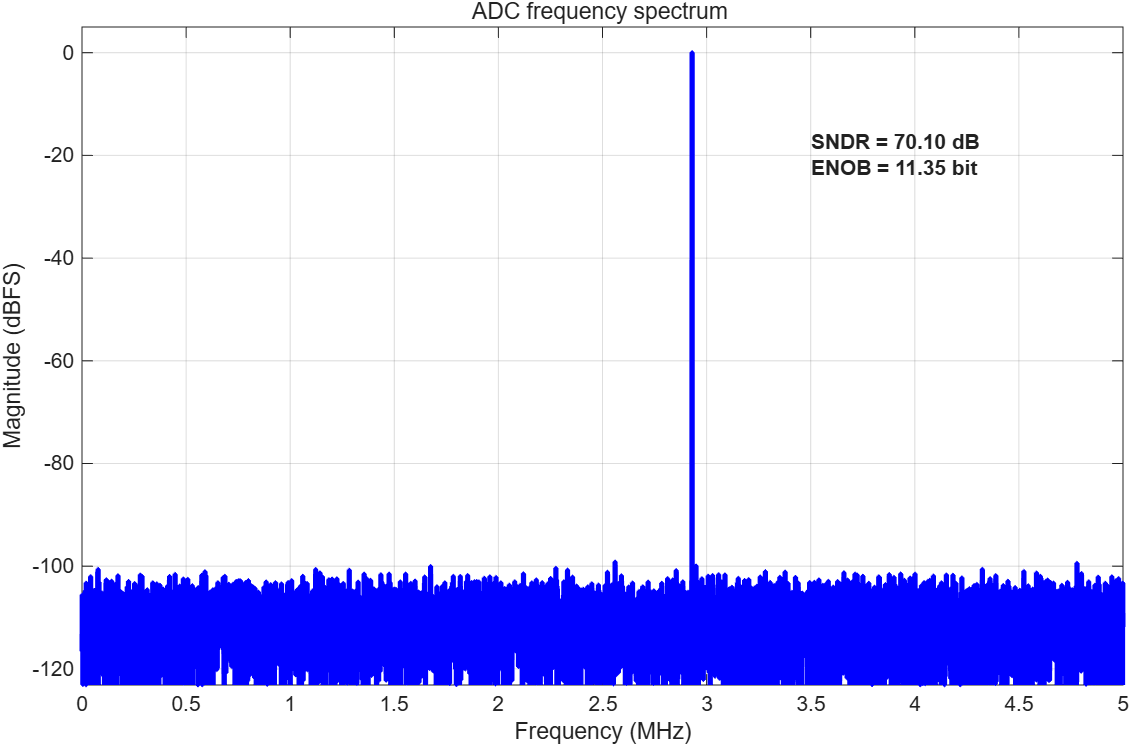
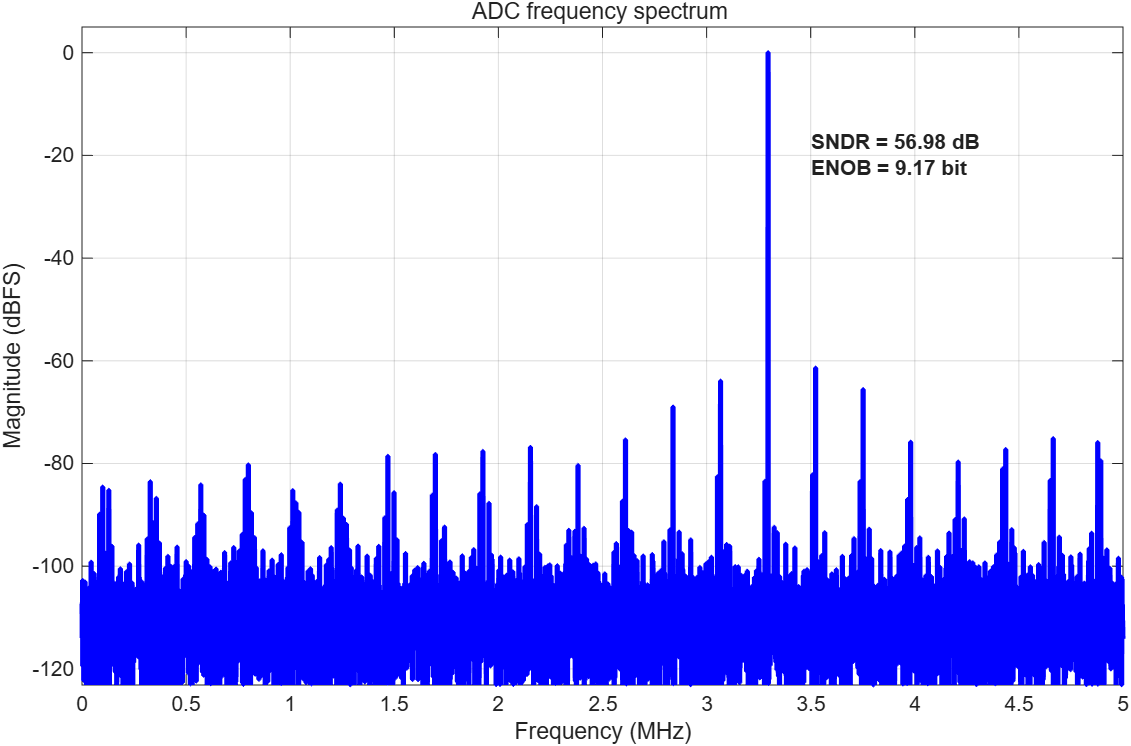
change the pictures

diff --git a/function/genBwaCdac.m b/function/genBwaCdac.m
@@ -1,28 +1,56 @@
 function capArray = genBwaCdac( p )
 
-  %% generate weight CDAC
+  %% choose topology
 
-  weightCDAC = 2 .^ ( p.adcResolution / 2 - 1 : -1 : 0 );
+  switch p.dacTopology
+    case 'split-array_type-1'
+      mainArrayExponent = p.mainArraySize-1 : -1 : 0;
+      subArrayExponent = [p.subArraySize-1 : -1 : 0, 0];
+      mainArrayCapWeight = 2 .^ mainArrayExponent;
+      subArrayCapWeight = 2 .^ subArrayExponent;
+      capWeight = [mainArrayCapWeight, subArrayCapWeight, p.bridgeCapWeight];
+    case 'split-array_type-2'
+      mainArrayExponent = [p.mainArraySize-1 : -1 : 0, 0];
+      subArrayExponent = p.subArraySize-1 : -1 : 0;
+      mainArrayCapWeight = 2 .^ mainArrayExponent;
+      subArrayCapWeight = 2 .^ subArrayExponent;
+      capWeight = [mainArrayCapWeight, subArrayCapWeight, p.bridgeCapWeight];
+    case 'split-array_type-3'
+      mainArrayExponent = p.mainArraySize-1 : -1 : 0;
+      subArrayExponent = p.subArraySize-1 : -1 : 0;
+      mainArrayCapWeight = 2 .^ mainArrayExponent;
+      subArrayCapWeight = 2 .^ subArrayExponent;
+      capWeight = [mainArrayCapWeight, subArrayCapWeight, p.bridgeCapWeight];
+    otherwise
+      warning( 'DAC synthesis failed! Please check the p.dacTopology.' )
+  end
 
-  %% include attenuation capacitor
+  %% choose matching
 
-  weightArray = [weightCDAC, 1, weightCDAC];
-
-  %% initialize capacitor array
-
-  capValueArray = nan( size( weightArray ) );
-
-  %% actual capacitor array
-
-  for iCap = 1 : length( weightArray )
-    numUnitCap = weightArray( iCap );
-    capValueArray( iCap ) = normrnd( numUnitCap * p.unitCap, sqrt( numUnitCap ) * p.mismatchStd * p.unitCap / p.numOfSmallestCap );
+  switch p.matching
+    case 'good'
+      caps = p.unitCap * normrnd( capWeight, p.mismatchStd .* sqrt( capWeight ) );
+    case 'bad'
+      caps = p.unitCap * normrnd( capWeight, p.mismatchStd .* capWeight );
+    otherwise
+      warning( 'Unkown matching flag! Matching flag must be set.' )
   end
 
   %% store results
 
-  capArray.main = capValueArray( 1 : p.adcResolution / 2 );
-  capArray.sub = capValueArray( p.adcResolution / 2 + 2 : end );
-  capArray.att = capValueArray( p.adcResolution / 2 + 1 );
+  switch p.dacTopology
+    case 'split-array_type-1'
+      capArray.main = caps( 1 : p.mainArraySize );
+      capArray.sub = caps( p.mainArraySize + 1 : end - 1 );
+      capArray.att = caps( end );
+    case 'split-array_type-2'
+      capArray.main = caps( 1 : p.mainArraySize + 1 );
+      capArray.sub = caps( p.mainArraySize + 2 : end - 1 );
+      capArray.att = caps( end );
+    case 'split-array_type-3'
+      capArray.main = caps( 1 : p.mainArraySize );
+      capArray.sub = caps( p.mainArraySize + 1 : end - 1 );
+      capArray.att = caps( end );
+  end
 
 end

diff --git a/function/plotAdcStaticSimulationResult.m b/function/plotAdcStaticSimulationResult.m
@@ -6,9 +6,10 @@ function [dnlObj, inlObj] = plotAdcStaticSimulationResult( p, adcStaticPerforman
   plot( adcStaticPerformanceMetrics.dnlCodeIndex, adcStaticPerformanceMetrics.dnlResult, 'b', 'LineWidth', 2.5 );
   xlabel( 'Code' );
   ylabel( 'DNL (LSB)' );
-  text( max( adcStaticPerformanceMetrics.dnlCodeIndex ) * 0.5, 0.8, sprintf( 'DNLmax = %.2f LSB', max( adcStaticPerformanceMetrics.dnlResult ) ), 'FontWeight', 'bold' );
+  text( max( adcStaticPerformanceMetrics.dnlCodeIndex ) * 0.3, 1.2 * max( abs( adcStaticPerformanceMetrics.dnlResult ) ), sprintf( 'mismatch = %.2f %% \n comparator input refered noise = %.0f uV \n DNLmax = %.2f LSB', p.mismatchStd * 100, p.compNoise * 1e6, max( abs( adcStaticPerformanceMetrics.dnlResult ) ) ), 'FontWeight', 'bold' );
   title( 'ADC DNL' );
-  ylim( [-4, 4] );
+  xlim( [0, 2 .^   p.adcResolution] );
+  ylim( [-1.5 * max( abs( adcStaticPerformanceMetrics.dnlResult ) ), 1.5 * max( abs( adcStaticPerformanceMetrics.dnlResult ) )] );
   grid on;
 
   %% plot INL
@@ -17,9 +18,10 @@ function [dnlObj, inlObj] = plotAdcStaticSimulationResult( p, adcStaticPerforman
   plot( adcStaticPerformanceMetrics.inlCodeIndex, adcStaticPerformanceMetrics.inlResult, 'b', 'LineWidth', 2.5 );
   xlabel( 'Code' );
   ylabel( 'INL (LSB)' );
-  text( max( adcStaticPerformanceMetrics.inlCodeIndex ) * 0.5, 0.8, sprintf( 'INLmax = %.2f LSB', max( adcStaticPerformanceMetrics.inlResult ) ), 'FontWeight', 'bold' );
+  text( max( adcStaticPerformanceMetrics.inlCodeIndex ) * 0.3, 1.2 * max( abs( adcStaticPerformanceMetrics.inlResult ) ), sprintf( 'mismatch = %.2f %% \n comparator input refered noise = %.0f uV \n INLmax = %.2f LSB', p.mismatchStd * 100, p.compNoise * 1e6, max( abs( adcStaticPerformanceMetrics.inlResult ) ) ), 'FontWeight', 'bold' );
   title( 'ADC INL' );
-  ylim( [-4, 4] );
+  xlim( [0, 2 .^   p.adcResolution] );
+  ylim( [-1.5 * max( abs( adcStaticPerformanceMetrics.inlResult ) ), 1.5 * max( abs( adcStaticPerformanceMetrics.inlResult ) )] );
   grid on;
 
 end

diff --git a/models/bwaCdac.m b/models/bwaCdac.m
@@ -8,12 +8,24 @@ function Vdac = bwaCdac( Vin, p, capArray, digitalWord )
   %% calculate attenuation factor
 
   AR = capArray.att / ( capTotalMain + capArray.att + p.capParMain );
-  hSub = capArray.sub * digitalWord( p.adcResolution / 2 + 1 : p.adcResolution ).' / ( capTotalSub + p.capParSub + capArray.att );
-  hMain = capArray.main * digitalWord( 1 : p.adcResolution / 2 ) .' / ( capTotalMain + p.capParMain + capArray.att );
+
+ %% calculate factors for different topologies
+
+  switch p.dacTopology
+    case 'split-array_type-1'
+      hSub = capArray.sub( 1 : end - 1 ) * digitalWord( p.mainArraySize + 1 : end ).' / ( capTotalSub + p.capParSub + capArray.att );
+      hMain = capArray.main * digitalWord( 1 : p.mainArraySize ) .' / ( capTotalMain + p.capParMain + capArray.att );
+    case 'split-array_type-2'
+      hSub = capArray.sub * digitalWord( p.mainArraySize + 1 : end ).' / ( capTotalSub + p.capParSub + capArray.att );
+      hMain = capArray.main( 1 : end - 1 ) * digitalWord( 1 : p.mainArraySize ) .' / ( capTotalMain + p.capParMain + capArray.att );
+    case 'split-array_type-3'
+      hSub = capArray.sub * digitalWord( p.mainArraySize + 1 : end ).' / ( capTotalSub + p.capParSub + capArray.att );
+      hMain = capArray.main * digitalWord( 1 : p.mainArraySize ) .' / ( capTotalMain + p.capParMain + capArray.att );
+  end
 
   %% calculate vdac
 
   H = hMain + AR * hSub;
-  Vdac = - Vin + p.Vref * H;
+  Vdac = - Vin + p.vRef * H;
 
 end

diff --git a/sim-config/configDynamicTest.m b/sim-config/configDynamicTest.m
@@ -4,12 +4,13 @@ function p = configDynamicTest
 
   p.adcResolution = 12;
   p.fftLen = 16384;
-  p.Vref = 1.2;
+  p.vRef = 1.2;
   p.fs = 10e6;
   p.fin = [];
   p.testInputBin = [ 1, 7, 11, 31, 51, 103, 205, 307, 409 ];
   p.lenInputSignal = length( p.testInputBin );
-  p.VDD = 1.2;
+  p.vcm = 0.6;
+  p.inputAmplitude = 0.6;
   p.k = 1.380649e-23;   
   p.temperature = 300;  
 
@@ -19,17 +20,23 @@ function p = configDynamicTest
 
   %% code density test specification
 
-  p.numOfEachCode = 30;
+  p.samplesPerStair = 100;
+  p.rampOffset = p.vRef / 2 .^ p.adcResolution / 1000;
 
   %% CDAC specification
 
   p.smallestCap = 50e-15;
   p.numOfSmallestCap = 1;
   p.unitCap = p.smallestCap * p.numOfSmallestCap;
-  p.mismatchStd = 0;
+  p.mismatchStd = 0.01;
   p.capPar = 0;
+  p.mainArraySize = 5;
+  p.subArraySize = 7;
   p.capParMain = 0;
   p.capParSub = 0;
+  p.dacTopology = 'split-array_type-3';
+  p.matching = 'good';
+  p.bridgeCapWeight = 1;
   
   %% Comparator specification
 

diff --git a/testbench/simBwaAdcStaticTest.m b/testbench/simBwaAdcStaticTest.m
@@ -5,13 +5,17 @@ close all
 clc
 format long g
 
+%% set the seed
+
+rng( 66 );
+
 %% load simulation configuration and parameters
 
 p = configDynamicTest();
 
 %% allocate storage for simulation data
 
-numTotalSamples = p.numOfEachCode * 2 .^ p.adcResolution;
+numTotalSamples = p.samplesPerStair * 2 .^ p.adcResolution;
 conversionResult = nan( numTotalSamples, p.adcResolution );
 idealDacOutput = nan( numTotalSamples, 1 );
 
@@ -26,7 +30,7 @@ capArray = genBwaCdac( p );
 %% run simulation
 
 for iSample = 1 : numTotalSamples
-  sample = samples.data( iSample );
+  sample = samples( iSample );
   conversionResult( iSample, : ) = bwaSarAdc( sample, p, capArray );
   idealDacOutput( iSample ) = idealDAC( conversionResult( iSample, : ) );
 end

diff --git a/testbench/simCbwAdcStaticTest.m b/testbench/simCbwAdcStaticTest.m
@@ -5,13 +5,17 @@ close all
 clc
 format long g
 
+%% set the seed
+
+rng( 13 );
+
 %% load simulation configuration and parameters
 
 p = configDynamicTest();
 
 %% allocate storage for simulation data
 
-numTotalSamples = p.numOfEachCode * 2 .^ p.adcResolution;
+numTotalSamples = p.samplesPerStair * 2 .^ p.adcResolution;
 conversionResult = nan( numTotalSamples, p.adcResolution );
 idealDacOutput = nan( numTotalSamples, 1 );
 
@@ -26,7 +30,7 @@ capArray = genCbwCdac( p );
 %% run simulation
 
 for iSample = 1 : numTotalSamples
-  sample = samples.data( iSample );
+  sample = samples( iSample );
   conversionResult( iSample, : ) = cbwSarAdc( sample, p, capArray );
   idealDacOutput( iSample ) = idealDAC( conversionResult( iSample, : ) );
 end

diff --git a/testbench/simSbwAdcStaticTest.m b/testbench/simSbwAdcStaticTest.m
@@ -5,13 +5,17 @@ close all
 clc
 format long g
 
+%% set the seed
+
+rng( 62 );
+
 %% load simulation configuration and parameters
 
 p = configDynamicTest();
 
 %% allocate storage for simulation data
 
-numTotalSamples = p.numOfEachCode * 2 .^ p.adcResolution;
+numTotalSamples = p.samplesPerStair * 2 .^ p.adcResolution;
 conversionResult = nan( numTotalSamples, p.adcResolution );
 idealDacOutput = nan( numTotalSamples, 1 );
 
@@ -26,7 +30,7 @@ capArray = genSbwCdac( p );
 %% run simulation
 
 for iSample = 1 : numTotalSamples
-  sample = samples.data( iSample );
+  sample = samples( iSample );
   conversionResult( iSample, : ) = sbwSarAdc( sample, p, capArray );
   idealDacOutput( iSample ) = idealDAC( conversionResult( iSample, : ) );
 end

diff --git a/function/plotMonteCarlo.m b/function/plotMonteCarlo.m
@@ -1,14 +1,17 @@
-function mcObj = plotMonteCarlo( enobMCResult )
+function mcObj = plotMonteCarlo( p, enobMCResult )
 
   %% plot Monte Carlo result
 
   mcObj = figure;
-  histogram( enobMCResult );
   meanEnob = mean( enobMCResult );
   stdEnob = std( enobMCResult );
+  h = histfit( enobMCResult, [], 'kernel' );
+  h( 2 ).Color = 'b';
+  h( 2 ).LineWidth = 2.5;
   xlabel( 'ENOB (bit)' );
   ylabel( 'Count' );
-  title( sprintf( "Monte Carlo ENOB Distribution Mean = %.2f bit Std = %.2f bit", meanEnob, stdEnob ) );
+  title( "Monte Carlo ENOB Distribution" );
+  text( min( enobMCResult ) , 50, sprintf( "N = %d Mean = %.2f bit Std = %.2f bit", p.numMonteCarlo, meanEnob, stdEnob ), 'FontWeight', 'bold' );
   grid on;
 
 end

diff --git a/function/genRampSamples.m b/function/genRampSamples.m
@@ -2,19 +2,14 @@ function samples = genRampSamples( p )
 
   %% calculate LSB
 
-  voltageLSB = p.Vref / 2 .^ p.adcResolution;
+  voltageLSB = p.vRef / 2 .^ p.adcResolution;
 
   %% calculate voltage step
 
-  voltStep = voltageLSB / p.numOfEachCode;
+  voltStep = voltageLSB / p.samplesPerStair;
 
-  %% calculate total numbers of samples
+  %% generate ramp signal
 
-  numSamples = p.numOfEachCode * 2 .^ p.adcResolution;
-
-  %% generate input voltage
-
-  sampleIndex = 0 : numSamples - 1;
-  samples.data = voltStep * sampleIndex;
+  samples = p.rampOffset : voltStep : p.vRef;
 
 end

diff --git a/testbench/simCbwAdcMonteCarlo.m b/testbench/simCbwAdcMonteCarlo.m
@@ -13,14 +13,15 @@ p = configDynamicTest();
 
 enobMCResult = nan( p.numMonteCarlo, 1 );
 
-%% generate samples
-
-samples = genSamples( p );
-
 %% Monte Carlo simulation
 parfor iMonteCarlo = 1 : p.numMonteCarlo
 
+  %% generate samples
+
+  samples = genSamples( p );
+
   %% load single simulation configuration and parameters
+
   conversionResult = nan( p.fftLen, p.adcResolution );
   idealDacOutput = nan( p.fftLen, 1 );
 
@@ -44,7 +45,7 @@ end
 
 %% plot simulation results
 
-mcObj = plotMonteCarlo( enobMCResult );
+mcObj = plotMonteCarlo( p, enobMCResult );
 
 %% export plots
 

diff --git a/function/genSamples.m b/function/genSamples.m
@@ -2,13 +2,13 @@ function samples = genSamples( p )
 
   %% use genInputFrequency function
 
-  [toneBin, inputFrequency] = genInputFrequency( p );
+  [toneBin, frequency] = genInputFrequency( p );
 
   %% generate input voltage
 
   time = ( 0 : p.fftLen - 1 ) / p.fs;
-  samples.data = p.VDD / 2 + p.VDD / 2 * sin( 2 * pi * inputFrequency * time );
+  samples.data = p.vcm + p.inputAmplitude * sin( 2 * pi * frequency * time );
   samples.toneBin = toneBin;
-  samples.inputFrequency = inputFrequency;
+  samples.frequency = frequency;
 
 end

diff --git a/function/processAdcHistogramData.m b/function/processAdcHistogramData.m
@@ -7,7 +7,7 @@ function adcStaticPerformanceMetrics = processAdcHistogramData( p, conversionRes
 
   %% calculate DNL and INL
 
-  dnlResult = codeCount( : ) / p.numOfEachCode - 1;
+  dnlResult = codeCount( : ) / p.samplesPerStair - 1;
   inlResult = cumsum( dnlResult );
 
   %% save the result
